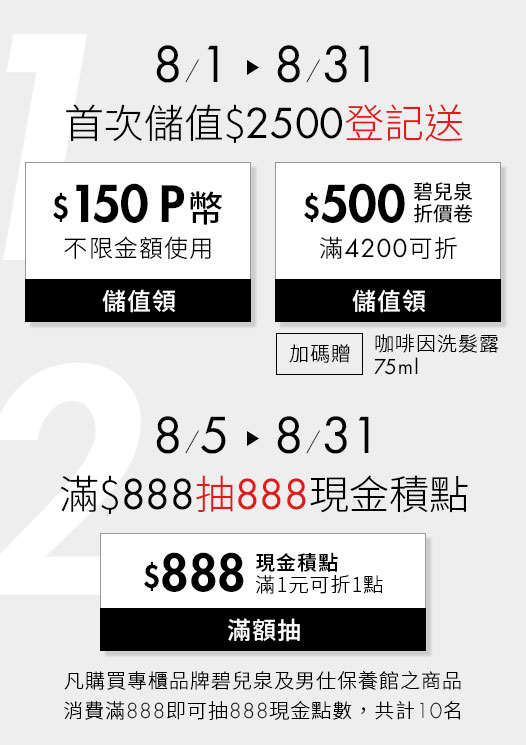
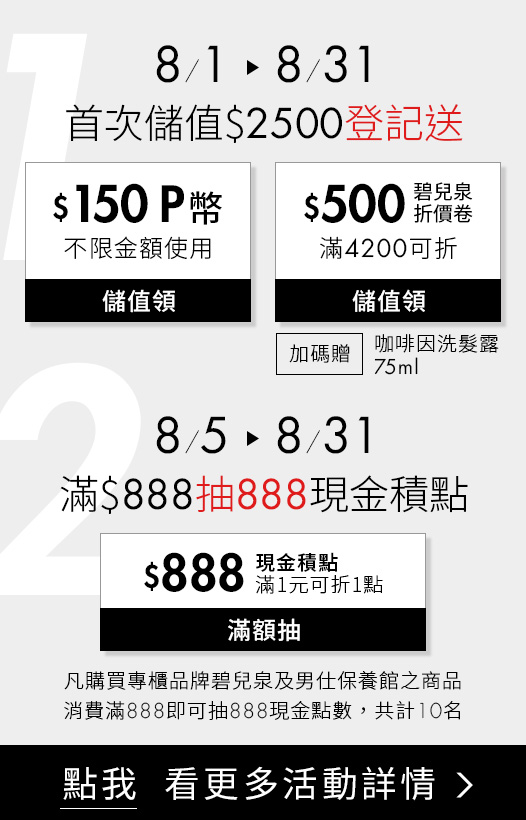
190801

diff --git a/index.html b/index.html
@@ -14,17 +14,17 @@
     <link type="text/css" rel="stylesheet" href="vendor/budicons.css">
     <link type="text/css" rel="stylesheet" href="vendor/futura.css"></link>
     <link type="text/css" rel="stylesheet" href="vendor/owl-carousel/css/owl.carousel.css">
-    <link type="text/css" rel="stylesheet" href="css/sm-core-css13.css"></link>
-    <link type="text/css" rel="stylesheet" href="css/sm-clean13.css"></link>
-    <link type="text/css" rel="stylesheet" href="css/common13.css">
-    <link type="text/css" rel="stylesheet" href="css/style13.css"></link>
+    <link type="text/css" rel="stylesheet" href="css/sm-core-css14.css"></link>
+    <link type="text/css" rel="stylesheet" href="css/sm-clean14.css"></link>
+    <link type="text/css" rel="stylesheet" href="css/common14.css">
+    <link type="text/css" rel="stylesheet" href="css/style14.css"></link>
     <script type="text/javascript" src="js/jquery.min.js"></script>
     <script type="text/javascript" src="https://maxcdn.bootstrapcdn.com/bootstrap/3.3.6/js/bootstrap.min.js"></script>
     <script type="text/javascript" src="https://cdnjs.cloudflare.com/ajax/libs/jquery.smartmenus/1.1.0/jquery.smartmenus.min.js"></script>
     <script type="text/javascript" src="https://cdnjs.cloudflare.com/ajax/libs/jquery.smartmenus/1.1.0/addons/bootstrap/jquery.smartmenus.bootstrap.min.js"></script>
     <script type="text/javascript" src="vendor/owl-carousel/js/owl.carousel.min.js"></script>
-    <script type="text/javascript" src="js/common13.js"></script>
-    <script type="text/javascript" src="js/creative13.js"></script>
+    <script type="text/javascript" src="js/common14.js"></script>
+    <script type="text/javascript" src="js/creative14.js"></script>
     <!-----請勿移除----->
     <!-- Google Analytics 請勿移除-->
     <script>
@@ -277,17 +277,13 @@
                 <img src="images/01-pchome-title-pc.jpg">
                 <img src="images/01-pchome-title-mb.jpg">
             </div>
-            <div class="bg">           
-                <a href="https://www.pchomeec.tw/activity/AC60691834" target="_brank">
+            <div class="content">
+                <a class="link-a" href="https://www.pchomeec.tw/activity/AC60691834" target="_brank"></a>
+                <a class="link-b" href="https://www.pchomeec.tw/activity/AC59630199" target="_brank"></a>
+                <div class="bg">
                     <img src="images/01-pchome-content-pc.jpg">
                     <img src="images/01-pchome-content-mb.jpg">
-                </a>
-            </div>
-            <div class="bg">           
-                <a href="https://www.pchomeec.tw/activity/AC59630199" target="_brank">
-                    <img src="images/01-pchome-btn-pc.jpg">
-                    <img src="images/01-pchome-btn-mb.jpg">
-                </a>
+                </div>               
             </div>
         </div>
     </div>

diff --git a/css/style14.css b/css/style14.css
@@ -310,6 +310,11 @@ a:focus {
     }
 }
 
+.main-head .container {
+    padding-right: 0px;
+    padding-left: 0px;
+}
+
 
 .main-head .top {
     background-color: #fff;
@@ -765,13 +770,45 @@ a:focus {
 }
 
 #pchome .content {
+    position: relative;
+}
+
+#pchome .content img {
+    z-index: 0;
+}
+
+#pchome .content .link-a {
+    position: absolute;
+    top: 5%;
+    left: 4%;
+    width: 92%;
+    height: 41.5%;
+    cursor: pointer;
+    z-index: 1;
+    background-color: transparent;
+}
+
+#pchome .content .link-b {
+    position: absolute;
+    bottom: 0;
+    left: 0;
     width: 100%;
+    height: 9%;
+    cursor: pointer;
+    z-index: 1;
+    background-color: transparent;
 }
 
-
-#pchome .left {
-    display: inline-block;
-}
-#pchome .right {
-    display: inline-block;
+/* 小於 576px  */
+@media (min-width: 576px) {
+    #pchome .content .link-a {
+        top:5%;
+        left: 8%;
+        width: 48%;
+        height: 75%;
+    }
+    #pchome .content .link-b {
+        width: 100%;
+        height: 12.9%;
+    }
 }
